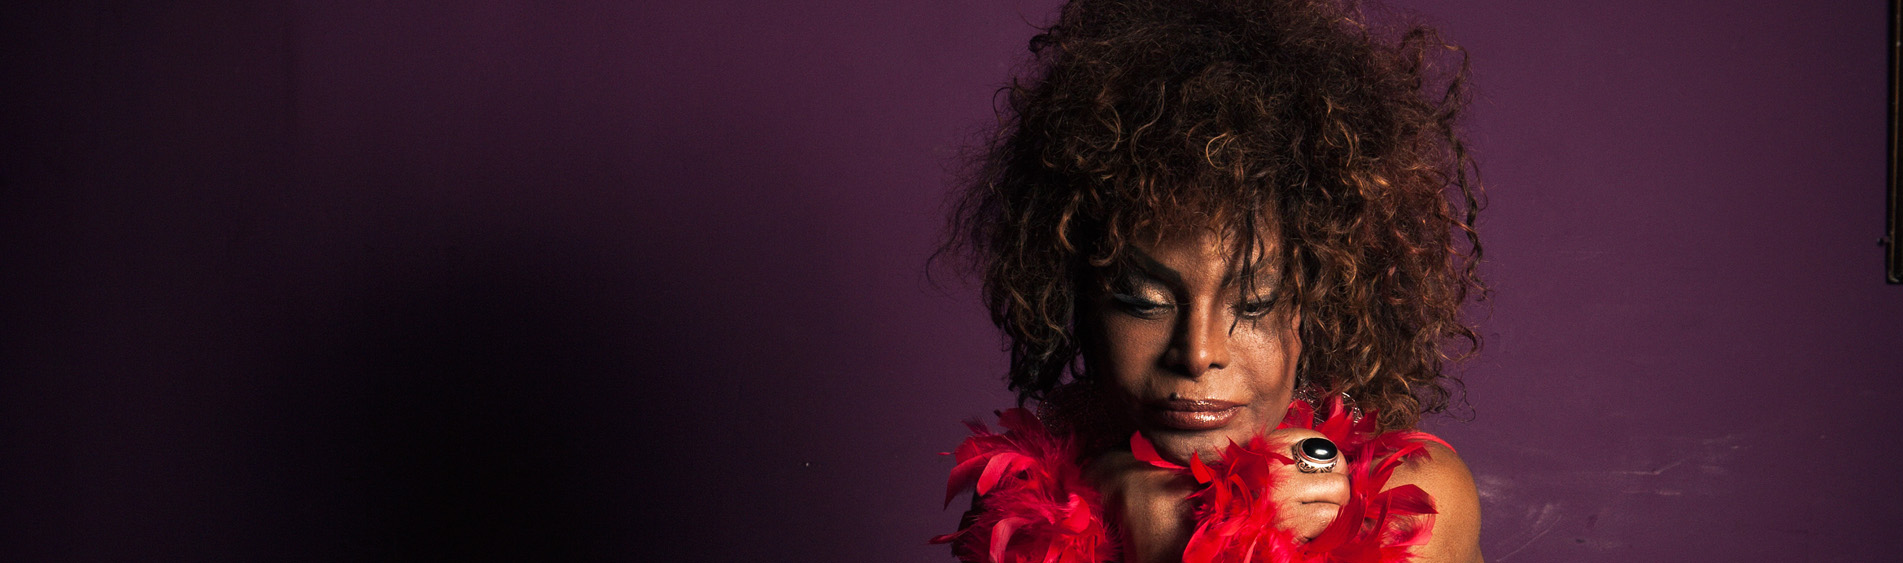
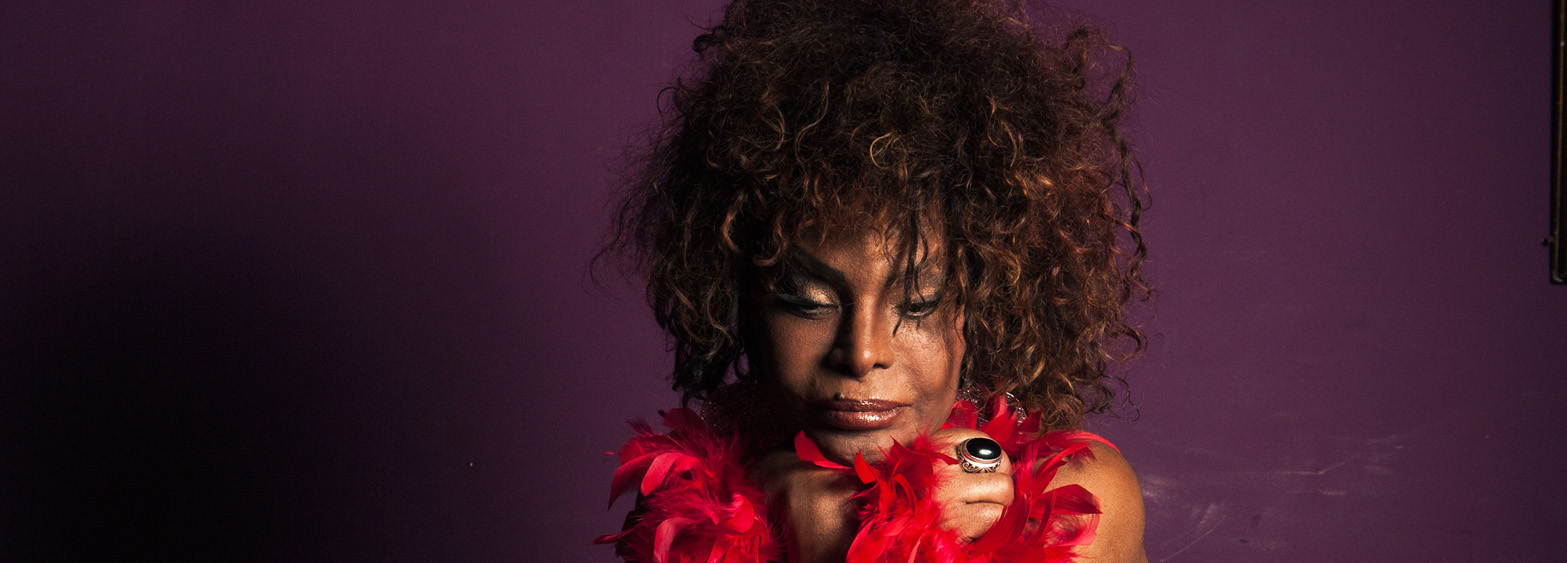
atualização dos arquivos | desktop css

diff --git a/personalidade/elza-soares/css/style.css b/personalidade/elza-soares/css/style.css
@@ -3,7 +3,7 @@
 }
 
 html {
-  font-size: 10px; /* definir uma font-size padrão */
+  font-size: 12px; 
   font-family: 'Montserrat', sans-serif;
 }
 
@@ -80,10 +80,20 @@ width: 80%;
   position: fixed;
   width: 100%;
   justify-content: space-around;
+  
 }
 
 .navegacao__logo {
 max-width: 200px;
+}
+
+.navegacao__itens {
+  display: none;     
+}
+
+.navegacao__menu-hamburguer img {
+background-color: #C083B9;
+border-radius: 5px;
 }
 
 .navegacao__box {
@@ -93,57 +103,9 @@ max-width: 200px;
   width: 90%;
 }
 
-.navegacao__itens {
-position: absolute;
-right: -700px;
-top: 85px;
-width: 100%;
-background-color: #674582;
-text-align: center;
-padding: 3rem 0;
-transition: right 1s;
-}
-
-.navegacao__itens.ativo {
-display: block;
-right: 0;
-top: 85px;
-width: 100%;
-background-color: #674582;
-text-align: center;
-padding: 3rem 0;
-transition: right 1s;
-}
-
-.navegacao__itens li > a {
-transition: all .2s;
-}
-
-.navegacao__itens li > a:hover {
-color: #C083B9;
-}
-
-.navegacao__menu-hamburguer img {
-background-color: #C083B9;
-border-radius: 5px;
-}
-
-.navegacao__nav {
-margin-bottom: 3rem;
-margin-right: 2rem;
-}
-
-.navegacao__nav li {
-font-size: 1.5rem;
-margin: 1rem;
-}
-
-.navegacao__redes-sociais a {
-margin: 0 1rem;
-}
 
 .header {
-  min-height: 80vh;
+  min-height: 70vh;
   width: 100%;
   height: 500px;
   background: linear-gradient(rgba(255, 0, 255, 0.2),
@@ -281,18 +243,10 @@ margin: 0 1rem;
 }
 
 
-@media screen and (min-width:420x){
-  
-.quote {
-  padding: 20px;
-}
-}
-
-
 @media screen and (min-width:421px){
   
   .quote {
-    padding: 20px;
+    padding: 15px 20px;
   }
 
 
@@ -300,10 +254,173 @@ margin: 0 1rem;
     max-width: 70%;
     margin: 0 auto;
   } 
+
+  .sobre-autora__texto {
+    font-weight: bold;
+    margin-left: 20px;
+    text-align: start;
+  }
   
   }
 
   @media screen and (min-width:700px){
 
+    html {
+      font-size: 14px; 
+      font-family: 'Montserrat', sans-serif;
+    }
+
+
+    .container {
+      margin: 0 auto;
+      width: 70%;
+      }
+
+    .navegacao__menu-hamburguer {
+      display: none;
+    }
+
+    .navegacao__nav {
+      display: flex;
+      justify-content: start;
+      font-size: 18px;
+    }
+
+    
+      
+    .navegacao__nav li {
+      font-size: 1.5rem;
+      
+      }      
+    .navegacao__redes-sociais a {
+      margin: 0 1rem;
+      max-width: 44px;
+      }
+
+    .navegacao__box {
+        display: flex;
+        align-items: center;
+        justify-content: space-between;
+        max-width: 70%;
+        margin: 0 auto;
+      }
+
+      
+      
+    .navegacao__itens {
+      display: flex;     
+      background-color: #674582;
+      text-align: center;      
+      transition: right 1s;
+      }
+      
+      .navegacao__itens.ativo {
+      display: flex;
+      right: 0;  
+      background-color: #674582;
+      text-align: center;  
+      transition: right 1s;
+      }
+      
+      .navegacao__itens li > a {
+      transition: all .2s;
+      }
+      
+      .navegacao__itens li > a:hover {
+      color: #C083B9;
+      }
+      
+
+      .minibio {
+        display: flex;
+        flex-direction: row;
+        align-items: center;
+      }
+
+      .minibio p {
+        max-width: 300px;
+        margin-left: 20px;
+        margin-right: 0;
+      }
+
+      .minibio__img {
+        max-width: 210px;
+        margin: 0;
+    }
+
+      .sobre-autora__container{
+        max-width: 50%;
+        margin: 0 auto;
+      } 
+
+      ..sobre-autora__texto {
+        flex-grow: 0;
+      }
+
+      .img-historia {
+        margin: 20px 0;
+      }
+
+      .rodape__principal {
+        display: flex;
+        flex-direction: row;
+        justify-content: space-between;
+        min-width: 70%;
+      }
+  }
+
+
+  @media screen and (min-width:1200px){
+
+    html {
+      font-size: 16px;
+    }
+
+
+    .container {
+      margin: 0 auto;
+     max-width: 60%;
+      }
+
+
+      .titulo-bafao {
+       font-size: 60px;
+    }  
+   
+    main {
+      font-size: 18px;
+      line-height: 30px;
+    }
+
+      h3 {
+        font-size: 36px;
+      }
+
+    .minibio p {
+      max-width: 50%;
+    }
+
+    .quote {
+      line-height: 50px;
+    }
+
+    .navegacao__box {
+      max-width: 80%;
+           
+    }
+    
+    .navegacao__nav ul {
+      display: flex;
+      
+    }
+
+    .navegacao__nav ul a{
+      font-size: 18px;
+      margin:0px 20px;
+    }
+
+      .rodape__principal {
+     max-width: 80%;
+    }
 
   }

diff --git a/personalidade/elza-soares/index.html b/personalidade/elza-soares/index.html
@@ -71,7 +71,7 @@
     <div class="quote">
       <h3>
         "Eu acho que a mulher do fim do mundo é aquela que busca, é aquela que grita, que reivindica, que sempre fica
-        de pé. No fim, eu sou essa mulher"
+        de pé. No fim, eu sou essa mulher."
       </h3>
     </div>
 
@@ -101,7 +101,7 @@
         o racismo, tudo que não presta”, afirma. Elza reconhece que passos importantes foram dados nesse sentido, mas
         que a caminhada ainda é longa. “Hoje temos voz. É não esmorecer, ter coragem e vamos chegar lá”, propõe.
       </p>
-      <img class="img-responsive" src="img/elza-02.jpg" alt="">
+      <img class="img-responsive img-historia" src="img/elza-02.jpg" alt="">
       <p>
         Com 84 lançamentos em discos e cerca de 3500 músicas gravadas, a cantora reconhece que a música é um caminho
         para politizar a sociedade, aventar a consciência acerca dos direitos humanos e promover resistência. “A minha
@@ -119,7 +119,7 @@
     <div class="sobre-autora__container">
     <img class="img-responsive sobre-autora__foto" src="img/lorena-rabelo-perfil.png" alt="Lorena Rabelo">
     <div class="sobre-autora__texto">
-      <p>Autora:Lorena Rabelo<br>Front-end | UI Designer</p>
+      <p>Autora: Lorena Rabelo<br>Front-end | UI Designer</p>
       <a href="https://github.com/lorena-rabelo">Link para o GitHub</a> 
     </div>
   </div>
@@ -144,7 +144,7 @@
       </div>
       <div class="rodape__redes-sociais">
         <a href="https://www.facebook.com/ReprogramaBr/" target="_blank">
-          <img src="img/fb-icone.png" alt="Icone do facebook Reprograma">
+          <img src="img//fb-icone.png" alt="Icone do facebook Reprograma">
           <span>/br.mdemaravilhosa</span>
         </a>
       </div>
